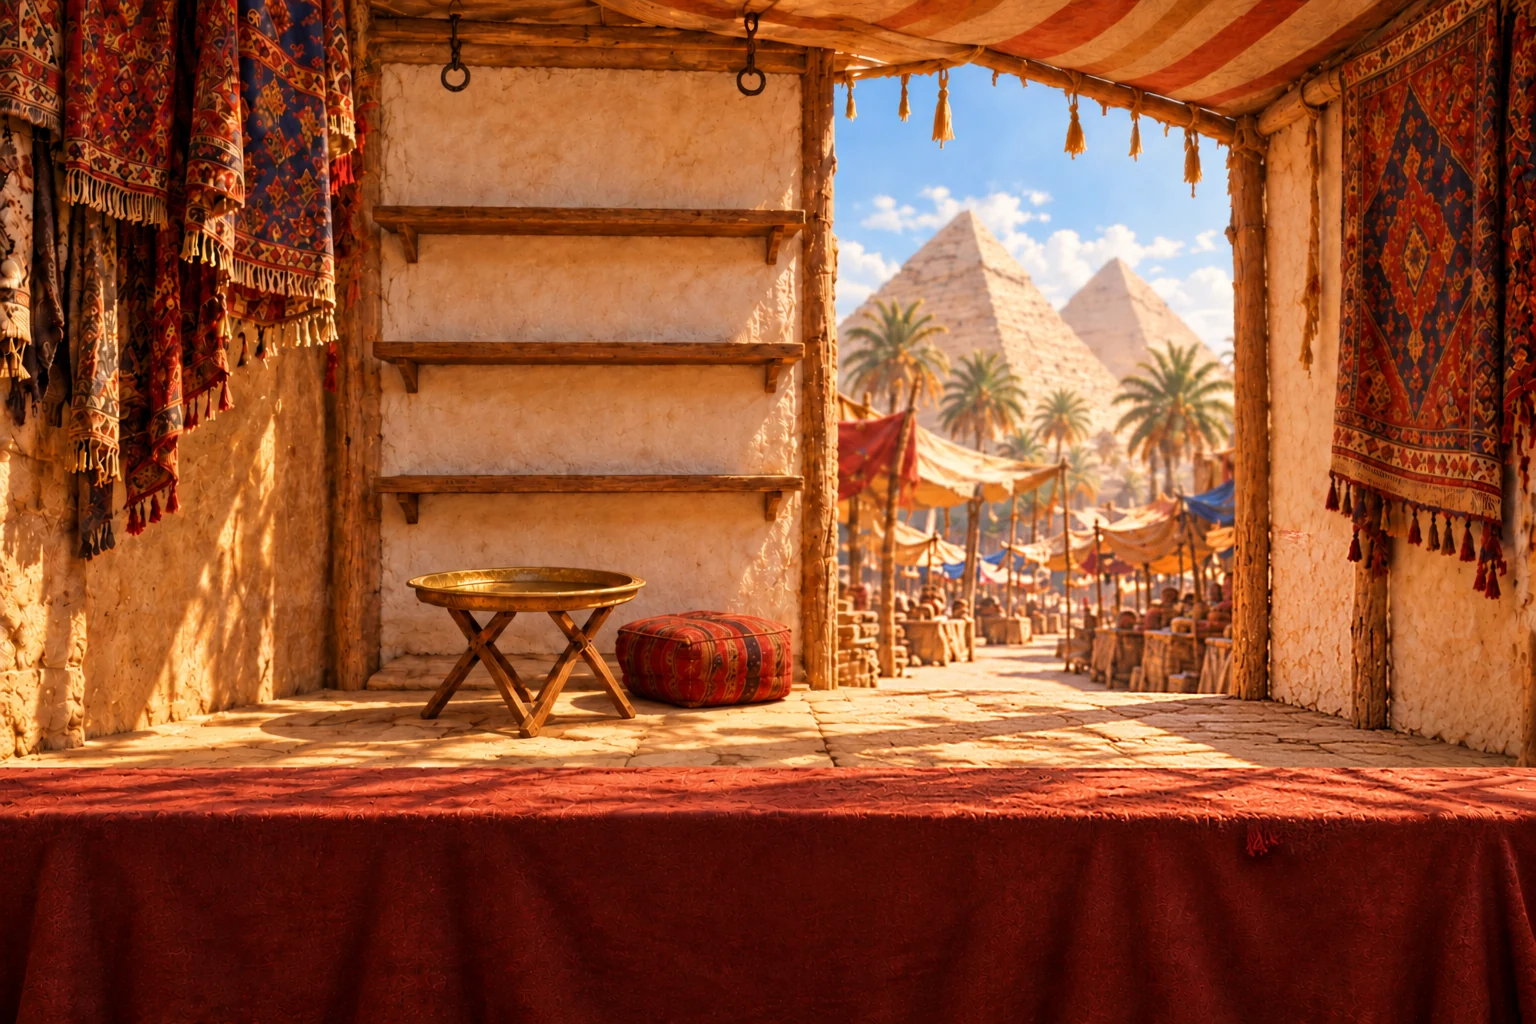
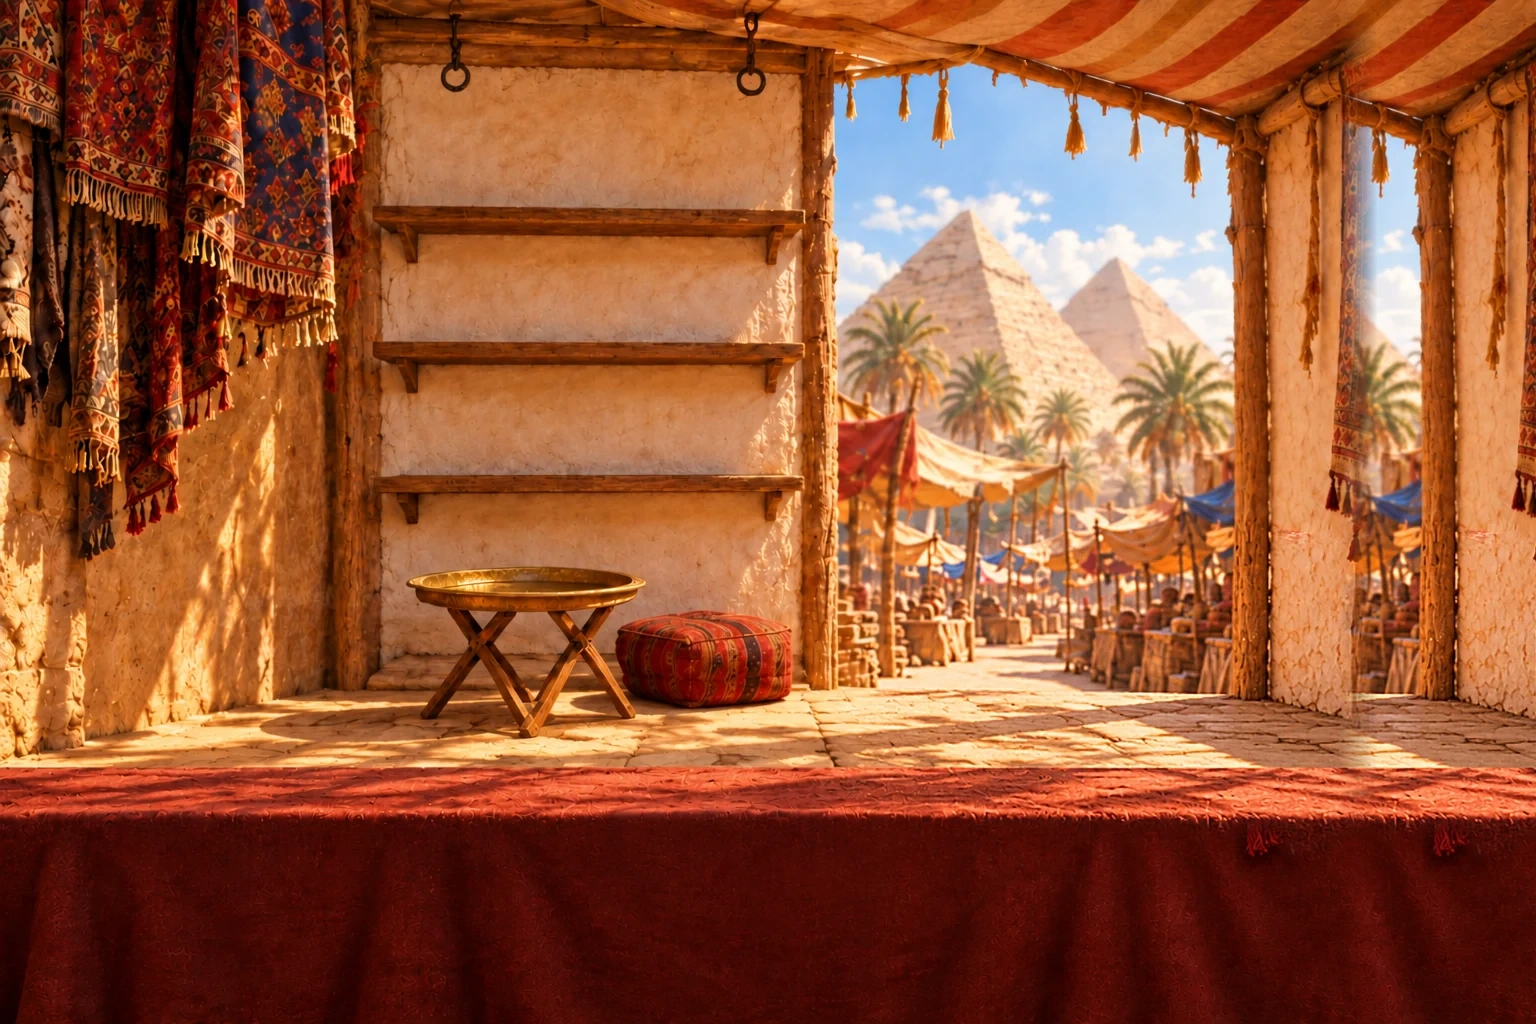
Stall: clear the rug clutter behind buyers, wire up the gramophone properly, ship travel that actually shows on the map
- Patch the stall2 background so the hanging rug that competed with the
  buyer's portrait for that spot is gone, replaced with plain tent wall
  and poles cloned from beside it.
- Gramophone: silence the game's own score and ambience fully while a
  record plays (was only ducked, so the two overlapped); trim its list
  to the finished songs rather than every ambient theme cue the score
  also uses elsewhere; add a pulsing note hint over it until first
  opened, since nothing marked it as tappable before.
- City streets: entering a shop, hall or NPC conversation from the
  "Walk the streets" view no longer tears down the street walk
  underneath it, so leaving the shop returns you to the same street
  instead of bouncing out to the town's tab panel.
- World map: booking a ship or Nairn motor car now animates the
  journey along the route like the train does, instead of teleporting
  instantly. Tapping a destination that has a faster sea or motor
  route now shows the route card (with that option highlighted as
  fastest) instead of setting off on foot before you ever see it.

Claude-Session: https://claude.ai/code/session_011VQQQ5WE2frWvu53pof5rR

Changed region(s): [[0.875, 0.0, 1.0, 1.0]]

diff --git a/src/components/World/WorldMap.tsx b/src/components/World/WorldMap.tsx
@@ -36,6 +36,9 @@ interface Plan {
   train?: { days: number; fare: number; stops: string[] };
   ships: { to: string; days: number; fare: number }[];
   motor: { to: string; days: number; fare: number }[];
+  /** the port or town this plan was made from, so a ship can still be booked from it even after
+   *  you've since set off on foot and world.at has gone back to null on the road */
+  from?: Settlement;
 }
 
 function tint(hour: number) {
@@ -65,7 +68,7 @@ export function WorldMap({ onStall, onDistrict, openPanel, openTab, planFor, sca
   const [short, setShort] = useState<{ plan: Plan; need: number; price: number } | null>(null);
   const planState = plan;
   const dawnSeen = useRef(useGame.getState().day);
-  const [moving, setMoving] = useState<null | { path: Pt[]; done: number; train: boolean; dest?: string; pxPerDay?: number }>(null);
+  const [moving, setMoving] = useState<null | { path: Pt[]; done: number; train: boolean; dest?: string; pxPerDay?: number; mode?: 'ship' | 'motor' }>(null);
   const [ownScale, setOwnScale] = useState(1);
   const timeScale = scale ?? ownScale;
   const setTimeScale = setScale ?? setOwnScale;
@@ -171,14 +174,14 @@ export function WorldMap({ onStall, onDistrict, openPanel, openTab, planFor, sca
     const ships = here && st ? seaRoutesFrom(here.id).filter((r) => r.to === st.id) : [];
     const motor = here && st ? motorRoutesFrom(here.id).filter((r) => r.to === st.id) : [];
     if (!st && isWaterPx(to)) {
-      const p0: Plan = { to, path: null, days: 0, ships: [], motor: [] };
+      const p0: Plan = { to, path: null, days: 0, ships: [], motor: [], from: here };
       setPlan(p0);
       return p0;
     }
     const path = st && isWaterPx(st) && !findPath(from, target) ? null : findPath(from, target);
     const days = path ? pathLength(path) / sp.pxPerDay : 0;
     const train = here && st ? railJourney(here.id, st.id) ?? undefined : undefined;
-    const p: Plan = { to: target, settlement: st, path, days, train, ships, motor };
+    const p: Plan = { to: target, settlement: st, path, days, train, ships, motor, from: here };
     setPlan(p);
     audio.sfx('tap');
     return p;
@@ -194,6 +197,9 @@ export function WorldMap({ onStall, onDistrict, openPanel, openTab, planFor, sca
     }
     const p = planTo(to, st, true);
     if (!p || !p.path) return; // water or no road: the card explains and offers boats and trains
+    // a port or a desert-car route gets you there faster than walking: show the card so that choice
+    // is actually in view, rather than setting off on foot before the player ever sees it
+    if (p.ships.length || p.motor.length) return;
     // leaving a town short of food: offer to buy what the road needs, in one tap, before setting off
     const need = Math.ceil(Math.max(1, p.days) * dailyFood(w.party)) - w.party.food;
     if (need > 0 && w.at && MARKETS[w.at] && !moving) {
@@ -253,6 +259,26 @@ export function WorldMap({ onStall, onDistrict, openPanel, openTab, planFor, sca
     setPlan(null);
     setReport('');
     audio.sfx(train ? 'train' : 'step');
+  };
+
+  /** Book passage by sea or by the Nairn desert car: pay now, then watch the ship or motor car
+   *  actually cross the map along the route, the same way the train does, instead of jumping there. */
+  const startSea = (r: { to: string; days: number; fare: number }, mode: 'ship' | 'motor', origin?: Settlement) => {
+    if (g.cash < r.fare) { setReport('You cannot afford the fare.'); return; }
+    const from = origin ?? here;
+    if (!from) return;
+    const dest = settlementById(r.to);
+    useGame.setState((st) => ({
+      cash: st.cash - r.fare,
+      ledger: [...st.ledger, { day: st.day, kind: 'expense', label: mode === 'motor' ? `Nairn desert car to ${dest.name}` : `Deck passage to ${dest.name}`, amount: -r.fare }],
+    }));
+    const path = [{ x: from.x, y: from.y }, { x: dest.x, y: dest.y }];
+    follow.current = true;
+    setMoving({ path, done: 0, train: true, dest: r.to, pxPerDay: pathLength(path) / Math.max(0.1, r.days), mode });
+    setPlan(null);
+    setAlt(null);
+    setReport(mode === 'motor' ? `By Nairn motor car across the desert to ${dest.name}.` : `By ship to ${dest.name}.`);
+    audio.sfx('tap');
   };
 
   // Standing still, time stands still too: it only runs while you travel.
@@ -374,7 +400,7 @@ export function WorldMap({ onStall, onDistrict, openPanel, openTab, planFor, sca
   const routeSvg = plan?.path ?? (moving ? moving.path : null);
   const hh = Math.floor(w.hour), mm = Math.floor((w.hour % 1) * 60);
   const caravanLine = `${partySize(w.party)} ${partySize(w.party) === 1 ? 'person' : 'people'} · ${animalCount(w.party)} animal${animalCount(w.party) === 1 ? '' : 's'} · ${foodDaysLeft(w.party) < 1 ? 'no food: buy some in a town' : `food ${foodDaysLeft(w.party)} days`} · load ${Math.round(sp.load)}/${Math.round(sp.cap)} · strength ${strength(w.party)}`;
-  const status = moving ? (moving.train ? 'On the train' : timeScale === 0 ? 'Paused on the road' : 'On the road') : here ? `In ${here.name}` : 'Camped in the open';
+  const status = moving ? (moving.mode === 'ship' ? 'At sea' : moving.mode === 'motor' ? 'Crossing the desert' : moving.train ? 'On the train' : timeScale === 0 ? 'Paused on the road' : 'On the road') : here ? `In ${here.name}` : 'Camped in the open';
   const giza = settlementById('giza');
   const gizaScreen = { x: giza.x * s + pan.x, y: giza.y * s + pan.y };
   const showOverhead = z >= 3 && gizaScreen.x > -60 && gizaScreen.x < size.w + 60 && gizaScreen.y > -60 && gizaScreen.y < size.h + 60 && !moving;
@@ -486,7 +512,7 @@ export function WorldMap({ onStall, onDistrict, openPanel, openTab, planFor, sca
         )}
         {moving && (
           <div className="map-speed" onPointerDown={(e) => e.stopPropagation()} onPointerUp={(e) => e.stopPropagation()} role="group" aria-label="Travel speed" data-testid="map-speed">
-            <span className="ms-pace" data-testid="pace">{moving.train ? 'By train' : `Pace ${milesPerDay(sp.pxPerDay)} mi/day`}</span>
+            <span className="ms-pace" data-testid="pace">{moving.mode === 'ship' ? 'By ship' : moving.mode === 'motor' ? 'By motor car' : moving.train ? 'By train' : `Pace ${milesPerDay(sp.pxPerDay)} mi/day`}</span>
             {[0, 1, 2, 4].map((k) => (
               <button key={k} className={timeScale === k ? 'on' : ''} onClick={() => setTimeScale(k)} aria-label={k ? `${k} times speed` : 'Pause'} data-testid={`speed-${k}`}>{k === 0 ? '❚❚' : k === 1 ? '▶' : k === 2 ? '▶▶' : '▶▶▶'}</button>
             ))}
@@ -507,9 +533,11 @@ export function WorldMap({ onStall, onDistrict, openPanel, openTab, planFor, sca
           <div className="wc-row">
             <div className="wc-main">
               <b>{moving.dest ? `To ${settlementById(moving.dest).name}` : 'Travelling'}</b>
-              <span>{moving.train ? 'Egyptian State Railways' : `${milesPerDay(sp.pxPerDay)} mi a day${sp.over ? ', overloaded' : ''}${sp.hungry ? ', hungry' : ''} · food for ${foodDaysLeft(w.party)} days`}</span>
+              <span>
+                {moving.mode === 'ship' ? 'At sea' : moving.mode === 'motor' ? 'Nairn desert car' : moving.train ? 'Egyptian State Railways' : `${milesPerDay(sp.pxPerDay)} mi a day${sp.over ? ', overloaded' : ''}${sp.hungry ? ', hungry' : ''} · food for ${foodDaysLeft(w.party)} days`}
+              </span>
             </div>
-            <button className="btn" onClick={() => { setAlt(null); stop('You stop and make camp.'); }} data-testid="stop">Stop</button>
+            <button className="btn" onClick={() => { setAlt(null); stop('You stop and make camp.'); }} data-testid="stop" disabled={!!moving.mode}>Stop</button>
           </div>
         ) : null}
         {short && !moving && (
@@ -531,7 +559,7 @@ export function WorldMap({ onStall, onDistrict, openPanel, openTab, planFor, sca
               <button className="btn" onClick={() => { const to = alt.settlement!.id as 'giza' | 'cairo'; setMoving(null); setAlt(null); setReport(g.ferry(to)); if (to === 'giza' && onDistrict) onDistrict(); else setPanel(to); }} data-testid="ferry">Nile ferry · £0.01</button>
             )}
             {alt.train && <button className="btn" onClick={() => { setMoving(null); start(true, alt); }} data-testid="train">Train · {fmt(alt.train.fare)}</button>}
-            {alt.ships.map((r) => <button key={r.to} className="btn" onClick={() => { setMoving(null); setAlt(null); setReport(g.sail(r.to)); setPanel(r.to); }} data-testid="ship">Ship · {fmt(r.fare)}</button>)}
+            {alt.ships.map((r) => <button key={r.to} className="btn sail-btn" onClick={() => { setMoving(null); startSea(r, 'ship', alt.from); }} data-testid="ship">⚓ Ship · {fmt(r.fare)}</button>)}
           </div>
         )}
         {moving ? null : plan ? (
@@ -550,10 +578,10 @@ export function WorldMap({ onStall, onDistrict, openPanel, openTab, planFor, sca
                 )}
                 {plan.train && <button className="btn" onClick={() => start(true)} data-testid="train">Train · {fmt(plan.train.fare)} · {plan.train.days < 1 ? `${Math.max(1, Math.round(plan.train.days * 24))} h` : `${plan.train.days.toFixed(1)} d`}</button>}
                 {plan.ships.map((r) => (
-                  <button key={r.to} className="btn" onClick={() => { setReport(g.sail(r.to)); setPlan(null); setPanel(r.to); }} data-testid="ship">Ship · {fmt(r.fare)} · {r.days} d</button>
+                  <button key={r.to} className={`btn sail-btn${r.days < plan.days ? ' faster' : ''}`} onClick={() => startSea(r, 'ship', plan.from)} data-testid="ship">⚓ Ship · {fmt(r.fare)} · {r.days} d{r.days < plan.days ? ' · fastest way there' : ''}</button>
                 ))}
                 {plan.motor.map((r) => (
-                  <button key={r.to} className="btn" onClick={() => { setReport(g.sail(r.to, 'motor')); setPlan(null); setPanel(r.to); }} data-testid="motor">Nairn motor car · {fmt(r.fare)} · {r.days} d</button>
+                  <button key={r.to} className={`btn sail-btn${r.days < plan.days ? ' faster' : ''}`} onClick={() => startSea(r, 'motor', plan.from)} data-testid="motor">🚚 Nairn motor car · {fmt(r.fare)} · {r.days} d{r.days < plan.days ? ' · fastest way there' : ''}</button>
                 ))}
                 <button className="btn" onClick={() => setPlan(null)}>Cancel</button>
               </div>
@@ -566,7 +594,7 @@ export function WorldMap({ onStall, onDistrict, openPanel, openTab, planFor, sca
               </div>
               {plan.train && <button className="btn primary" onClick={() => start(true)}>Train · {fmt(plan.train.fare)}</button>}
               {plan.ships.map((r) => (
-                <button key={r.to} className="btn primary" onClick={() => { setReport(g.sail(r.to)); setPlan(null); setPanel(r.to); }}>Ship · {fmt(r.fare)}</button>
+                <button key={r.to} className="btn primary sail-btn" data-testid="ship" onClick={() => startSea(r, 'ship', plan.from)}>⚓ Ship · {fmt(r.fare)}</button>
               ))}
               <button className="btn" onClick={() => setPlan(null)}>OK</button>
             </div>

diff --git a/src/components/Radio/Gramophone.tsx b/src/components/Radio/Gramophone.tsx
@@ -1,20 +1,8 @@
 import { useEffect, useRef, useState } from 'react';
 import { audio } from '../../game/audio/engine';
 
-// Friendly titles for tracks whose key doesn't read well title-cased; everything else falls back to that.
+// Friendly titles for the records on offer.
 const LABELS: Record<string, string> = {
-  'khan-bayati': 'Khan, Bayati',
-  'khan-rast': 'Khan, Rast',
-  'khan-kurd': 'Khan, Kurd',
-  'palace-rast': 'At the Palace, Rast',
-  'palace-nahawand': 'At the Palace, Nahawand',
-  'road-hijaz': 'On the Road, Hijaz',
-  'road-bayati': 'On the Road, Bayati',
-  'evening-saba': 'Evening, Saba',
-  'evening-bayati': 'Evening, Bayati',
-  auction: 'The Auction Room',
-  'salon-waltz': 'A Waltz for the Salon',
-  'istanbul-ussak': 'Istanbul, Ussak',
   'title-hijaz': 'Threads of Fortune (Theme)',
   'nightingale-club': 'The Nightingale Club',
   'bu-geceyi-sev': 'Bu Geceyi Sev',
@@ -23,28 +11,35 @@ const LABELS: Record<string, string> = {
   'la-vie-du-levant': 'La Vie du Levant',
 };
 const label = (id: string) => LABELS[id] ?? id.replace(/-/g, ' ').replace(/\b\w/g, (c) => c.toUpperCase());
+// The gramophone is a jukebox of finished songs, not every incidental theme cue the score also uses
+// elsewhere (those play on their own as you move around); only offer the tracks named above, in this order.
+const SONG_ORDER = Object.keys(LABELS);
 
-/** The gramophone on the shelf: pick any recording you have collected and it plays through the horn,
- *  ducking whatever ambient theme is already going, the way the radio ducks it for the bulletin. */
+/** The gramophone on the shelf: pick any record you have collected and it plays through the horn.
+ *  The game's own score and ambience go fully quiet while it plays, so the two never overlap, and
+ *  come back once the lid is closed. */
 export function Gramophone({ onClose }: { onClose: () => void }) {
   const [tracks, setTracks] = useState<string[] | null>(null);
   const [playing, setPlaying] = useState<string | null>(null);
   const elRef = useRef<HTMLAudioElement | null>(null);
 
   useEffect(() => {
-    fetch('audio/music/tracks.json').then((r) => r.json()).then((m: Record<string, number>) => setTracks(Object.keys(m))).catch(() => setTracks([]));
+    fetch('audio/music/tracks.json')
+      .then((r) => r.json())
+      .then((m: Record<string, number>) => setTracks(SONG_ORDER.filter((id) => id in m)))
+      .catch(() => setTracks([]));
   }, []);
 
-  useEffect(() => () => { elRef.current?.pause(); audio.duckMusic(false); }, []);
+  useEffect(() => () => { elRef.current?.pause(); audio.muteMusic(false); }, []);
 
   const play = (id: string) => {
     audio.sfx('tap');
     audio.ensure();
     if (elRef.current) { elRef.current.pause(); elRef.current = null; }
-    audio.duckMusic(true);
+    audio.muteMusic(true);
     const el = new Audio(`audio/music/${id}.mp3`);
     el.volume = 0.85;
-    el.onended = () => { setPlaying(null); audio.duckMusic(false); };
+    el.onended = () => { setPlaying(null); audio.muteMusic(false); };
     el.play().catch(() => {});
     elRef.current = el;
     setPlaying(id);
@@ -53,7 +48,7 @@ export function Gramophone({ onClose }: { onClose: () => void }) {
     elRef.current?.pause();
     elRef.current = null;
     setPlaying(null);
-    audio.duckMusic(false);
+    audio.muteMusic(false);
   };
 
   return (

diff --git a/src/components/World/Settlement.tsx b/src/components/World/Settlement.tsx
@@ -322,24 +322,29 @@ export function SettlementPanel({ id, onClose, onStall, tab: initialTab = 'town'
       )}
       <Tip id="town" when={!inCity && !inVenue && !talkTo && !inAuction} />
       {look && <div className="venue-overlay"><RugViewer preview={look} onClose={() => setLook(null)} /></div>}
-      {houseWalk && (
-        <div className="venue-overlay">
-          <Venue def={auctionVenue(houseWalk)} onLeave={() => setHouseWalk(null)} onExitCity={() => { setHouseWalk(null); onClose(); }} exitLabel={`Leave ${st.name}`} onAction={(a) => { if (a === 'floor') setInAuction(houseWalk); }} />
-        </div>
-      )}
-      {inAuction && <Auction houseId={inAuction} onClose={() => setInAuction(null)} />}
+      {/* Walking the streets stays open underneath whatever shop or hall it leads to, so stepping back
+          out of that door returns you to the same street, not all the way out to the town panel. */}
       {inCity && walk && (
         <div className="venue-overlay">
           <Venue def={walk} onLeave={() => setInCity(false)} onExitCity={() => { setInCity(false); onClose(); }} exitLabel={`Leave ${st.name}`} onAction={(a) => {
-            setInCity(false);
-            if (a === 'palace') { if (venue?.map) setInVenue(true); else setTab('town'); }
-            else if (a.startsWith('venue:')) { const v = VENUES_1925[a.slice(6)]; setTab('town'); if (v && venueOpen(v, g.day)) setCabaret(v.id); else setNote(`${v?.name ?? 'The hall'} is shuttered. A sign on the door says it opens in 1926.`); }
+            if (a === 'palace') { if (venue?.map) setInVenue(true); else { setInCity(false); setTab('town'); } }
+            else if (a.startsWith('venue:')) {
+              const v = VENUES_1925[a.slice(6)];
+              if (v && venueOpen(v, g.day)) setCabaret(v.id);
+              else { setInCity(false); setTab('town'); setNote(`${v?.name ?? 'The hall'} is shuttered. A sign on the door says it opens in 1926.`); }
+            }
             else if (a.startsWith('house:')) setHouseWalk(a.slice(6));
-            else if (a.startsWith('npc:')) { setTab('town'); setTalkTo(a.slice(4)); }
-            else setTab(a as SetTab);
+            else if (a.startsWith('npc:')) setTalkTo(a.slice(4));
+            else { setInCity(false); setTab(a as SetTab); }
           }} />
         </div>
       )}
+      {houseWalk && (
+        <div className="venue-overlay">
+          <Venue def={auctionVenue(houseWalk)} onLeave={() => setHouseWalk(null)} onExitCity={() => { setHouseWalk(null); setInCity(false); onClose(); }} exitLabel={`Leave ${st.name}`} onAction={(a) => { if (a === 'floor') setInAuction(houseWalk); }} />
+        </div>
+      )}
+      {inAuction && <Auction houseId={inAuction} onClose={() => setInAuction(null)} />}
       {inVenue && venue && <div className="venue-overlay"><Venue id={venue.id} onLeave={() => setInVenue(false)} /></div>}
       {cabaret && <div className="venue-overlay"><Cabaret id={cabaret} onLeave={() => setCabaret(null)} /></div>}
       {audience && <AudienceOverlay onDone={() => setAudience(false)} />}

diff --git a/src/styles.css b/src/styles.css
@@ -603,6 +603,10 @@ table.ledger .neg { color: var(--bad); }
 .wc-main span { font-size: 14.5px; color: var(--text-dim); }
 .wc-btns { display: flex; gap: 6px; flex-wrap: wrap; }
 .wc-btns .btn { padding: 8px 10px; font-size: 14.5px; }
+/* the sea (and desert-car) option: a port route is usually the faster way, so it's given a colour of
+   its own rather than blending into the walking/cancel buttons beside it */
+.sail-btn { border-color: #4a86a8; color: #cfe9fb; }
+.sail-btn.faster { background: linear-gradient(180deg, #3f7fa8, #23506b); border-color: #8fd0f5; color: #eaf7ff; font-weight: 700; box-shadow: 0 0 10px rgba(90,190,240,.35); }
 
 .settlement { overflow-y: auto; }
 .set-head { position: relative; min-height: 150px; background-color: #2b200f; background-repeat: no-repeat; flex: none; display: flex; align-items: flex-end; padding: 12px 14px; padding-top: calc(12px + env(safe-area-inset-top, 0px)); }
@@ -1846,6 +1850,7 @@ body.travelling .mission-strip{display:none}
 .scene.stall .stall-prop.stall-cat{z-index:4;pointer-events:auto;cursor:pointer}
 .scene.stall .stall-gramophone-art{z-index:1;pointer-events:none}
 .scene.stall .stall-gramophone-hit{position:absolute;left:25.5%;top:22%;width:11%;height:13%;z-index:6;padding:0;border:0;background:none;cursor:pointer}
+.scene.stall .stall-gramophone-hint{position:absolute;left:calc(25.5% + 5.5%);top:19%;transform:translateX(-50%);z-index:6;pointer-events:none;color:#f0b35a;font-size:22px;text-shadow:0 0 8px rgba(240,179,90,.9),0 2px 3px rgba(0,0,0,.6);animation:beckon 1.4s ease-in-out infinite}
 .scene.stall .bubble.top{position:absolute;bottom:auto;z-index:7;overflow:hidden}
 /* cabarets and music halls: the card in the town, and the evening itself */
 .venue-pic{position:relative}

diff --git a/src/components/StallEncounter/Scene.tsx b/src/components/StallEncounter/Scene.tsx
@@ -379,10 +379,21 @@ function StallCat({ onCat, rugOnCounter }: { onCat: () => void; rugOnCounter: bo
  *  stays out of the way of clicks elsewhere on the stage); a small invisible button sized to the
  *  actual horn-and-cabinet, at its measured position in that canvas, is the tap target. */
 function StallGramophone() {
+  const seen = useGame((st) => st.gramoSeen);
   return (
     <>
       <img className="stall-prop stall-gramophone-art" src="art/stall2/props/prop-gramophone.webp" alt="" draggable={false} />
-      <button className="stall-gramophone-hit" aria-label="Play the gramophone" data-testid="stall-gramophone" onClick={(e) => { e.stopPropagation(); window.dispatchEvent(new Event('tof:gramophone')); }} />
+      {!seen && <span className="stall-gramophone-hint" aria-hidden="true">♪</span>}
+      <button
+        className="stall-gramophone-hit"
+        aria-label="Play the gramophone"
+        data-testid="stall-gramophone"
+        onClick={(e) => {
+          e.stopPropagation();
+          if (!seen) useGame.setState({ gramoSeen: true });
+          window.dispatchEvent(new Event('tof:gramophone'));
+        }}
+      />
     </>
   );
 }

diff --git a/src/game/audio/engine.ts b/src/game/audio/engine.ts
@@ -118,6 +118,14 @@ class AudioEngine {
     this.gains.ambience.gain.setTargetAtTime(this.toggles.ambience ? this.level('ambience') * (on ? 0.5 : 1) : 0, this.ctx.currentTime, 0.4);
   }
 
+  /** Silence the background score and ambience entirely while a record plays on the gramophone,
+   *  so the two pieces of music never overlap; restores both fully once the lid closes. */
+  muteMusic(on: boolean) {
+    if (!this.ctx) return;
+    this.gains.music.gain.setTargetAtTime(this.toggles.music && !on ? this.level('music') : 0, this.ctx.currentTime, 0.3);
+    this.gains.ambience.gain.setTargetAtTime(this.toggles.ambience && !on ? this.level('ambience') : 0, this.ctx.currentTime, 0.3);
+  }
+
   private loadBank() {
     if (!this.bankLoading) this.bankLoading = fetch('audio/soundbank.json').then((r) => r.json()).then((b: Bank) => (this.bank = b)).catch(() => null);
     return this.bankLoading;

diff --git a/src/game/state/store.ts b/src/game/state/store.ts
@@ -140,6 +140,8 @@ export interface GameState {
   paperSeen?: number;
   /** the last day whose radio bulletin you switched on */
   radioHeard?: number;
+  /** true once you have opened the gramophone at the stall; a hint shows over it until then */
+  gramoSeen?: boolean;
   /** prices you have seen rugs fetch at auction, by rug type */
   intel?: Record<string, MarketIntelRecord>;
   /** unsold lots that will come back cheaper at the same house */
